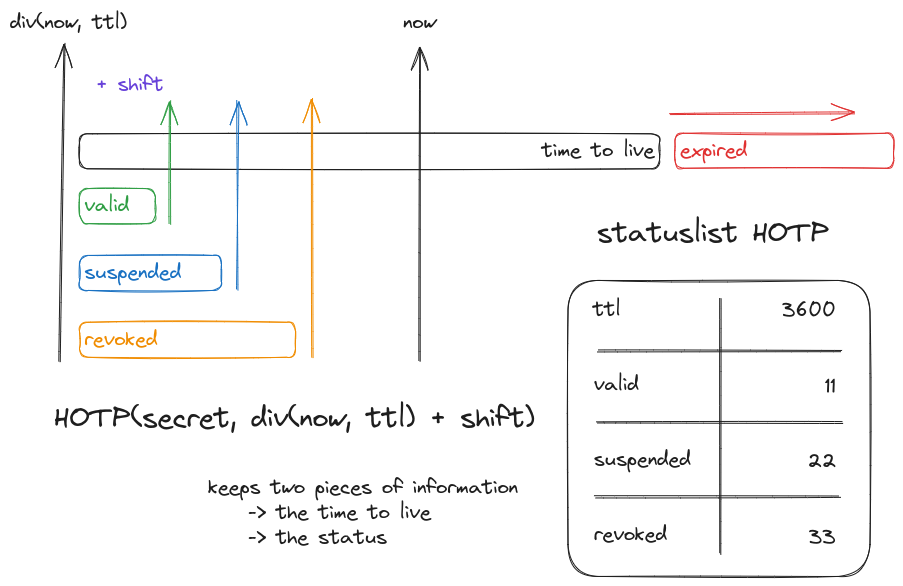
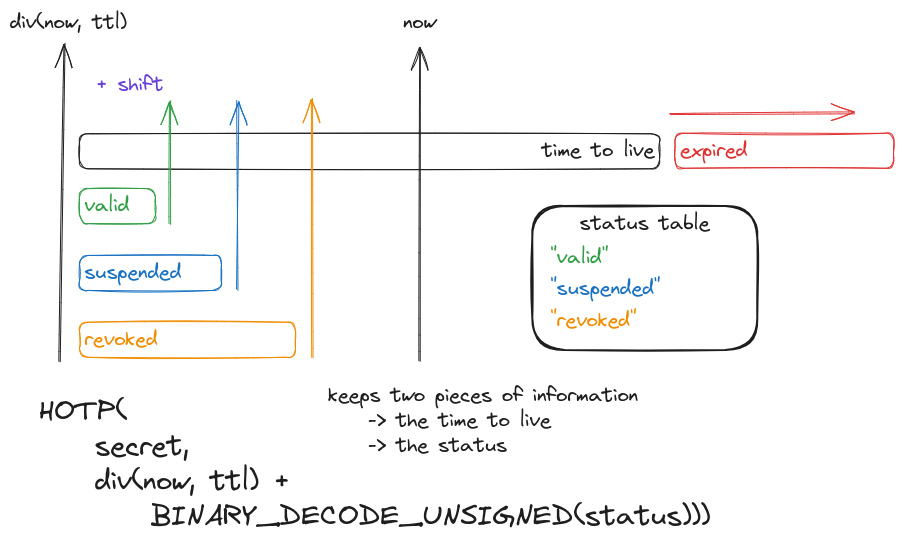
status table types fix + privacy considerations

diff --git a/SPECIFICATION.md b/SPECIFICATION.md
@@ -34,6 +34,7 @@ On top of the [Verifiable Credentials Data Model v2.0 Terminology](https://www.w
 - __verifiable credential status__: The status of a verifiable credential at a given point in time. The different statuses give information about the validity of the verifiable credential data. This information can be given for a set of verifiable credentials providing the status of each piece of information in a more convenient way.
 - __status information__
 - __status token__
+- __status table__
 
 ## 3. Data Model
 ### 3.1 Status Tokens
@@ -55,7 +56,7 @@ The status information, as the first part of status tokens, is encoded to store 
 <random bytes>{4}<binary encode Time To Live>{4}
 ```
 
-The random part may be a fixed-sized list of bytes. The time to live may be padded binary encoded integer to save storage. The statuses are a list of single-byte integers making the ability to have 256 possible statuses. Those parts may be concatenated to form the status information.
+The random part may be a fixed-sized list of bytes. The time to live may be padded binary encoded integer to save storage. Those parts may be concatenated to form the status information.
 
 ### 3.1 Derived Status
 ![Status derivation](https://raw.githubusercontent.com/malach-it/vc-decentralized-status/main/images/non-opaque-salt.png)
@@ -115,11 +116,14 @@ generate_status_token(secret: string, ttl: int, status: string): int {
 ### 5.2 Resolving a verifiable credential status token
 
 ```
-@status_table = { status: string -> shift: int }
+@status_table = [ status: string ]
+shift(status: string): int {
+  BINARY_DECODE_UNSIGNED(BINARY_ENCODE(status))
+}
 decode_token_info(token_info: string): hashtable {
 	result = REDUCE(
 		BYTES(status_token),
-		{ ttl => [], statuses => [], memory => [] },
+		{ ttl => [], memory => [] },
 		lambda (byte, index), acc:
 			CASE index
 			WHEN index < 4
@@ -158,9 +162,9 @@ resolve status_token(secret: string, status_token: string): string {
 
 Status tokens are self-contained but only resolvable by the issuer which owns a secret component, the decentralized architecture gives a way to have low-weighted storage points. To state the validity of verifiable credentials and keep the holder's privacy, verifiers can resolve the status of the presented credentials without disclosing the data contained in it to the issuer in any manner. Mitigated by the fact that Time To Live information can give hints about the type of credential resolved. The status information contained in the token information can also be a disclosure of the type of credential if not standardized.
 
-### 6.2 Status list
+### 6.2 Status table
 
-The status list represents the association of statuses with an integer shift for lowering to a tiny list the issuer needed storage. The integer shifts list is encoded in the status token so can be considered public. The status list may be standardized globally or issuer-wide for the whole set of credentials emitted by an issuer to lower the verifiable credentials type disclosability.
+The status table represents the list of possible statuses that are encoded into a shift integer for lowering to a tiny list the issuer needed storage. The status list may be standardized globally or issuer-wide for the issuer emitted set of credentials to lower the verifiable credentials type disclosability. The status token being part of a credential and including a time to live, a way to check if statuses are hidden is to resolve it against a given status table whether the status token is valid to ensure a status is found. Otherwise, a hidden status has been set by the issuer. This check can be performed with a past timestamp, then, once issued there will always be a way to check if the status of a token has been hidden provided an issuer secret.
 
 ### 6.3 Granularity
 
